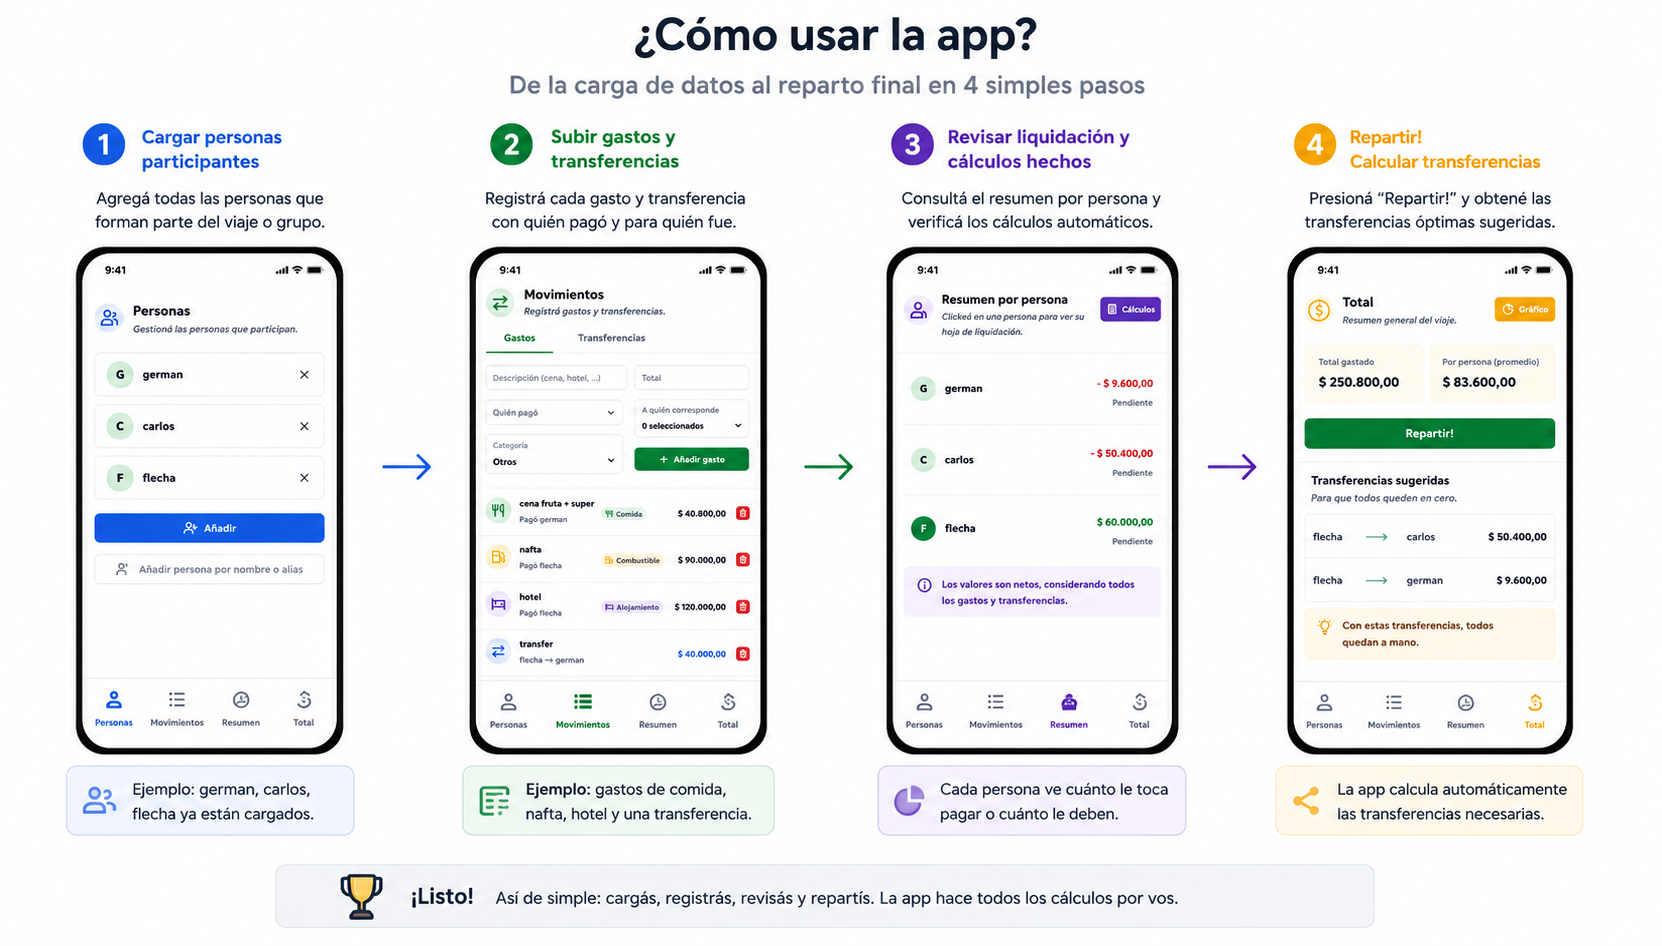
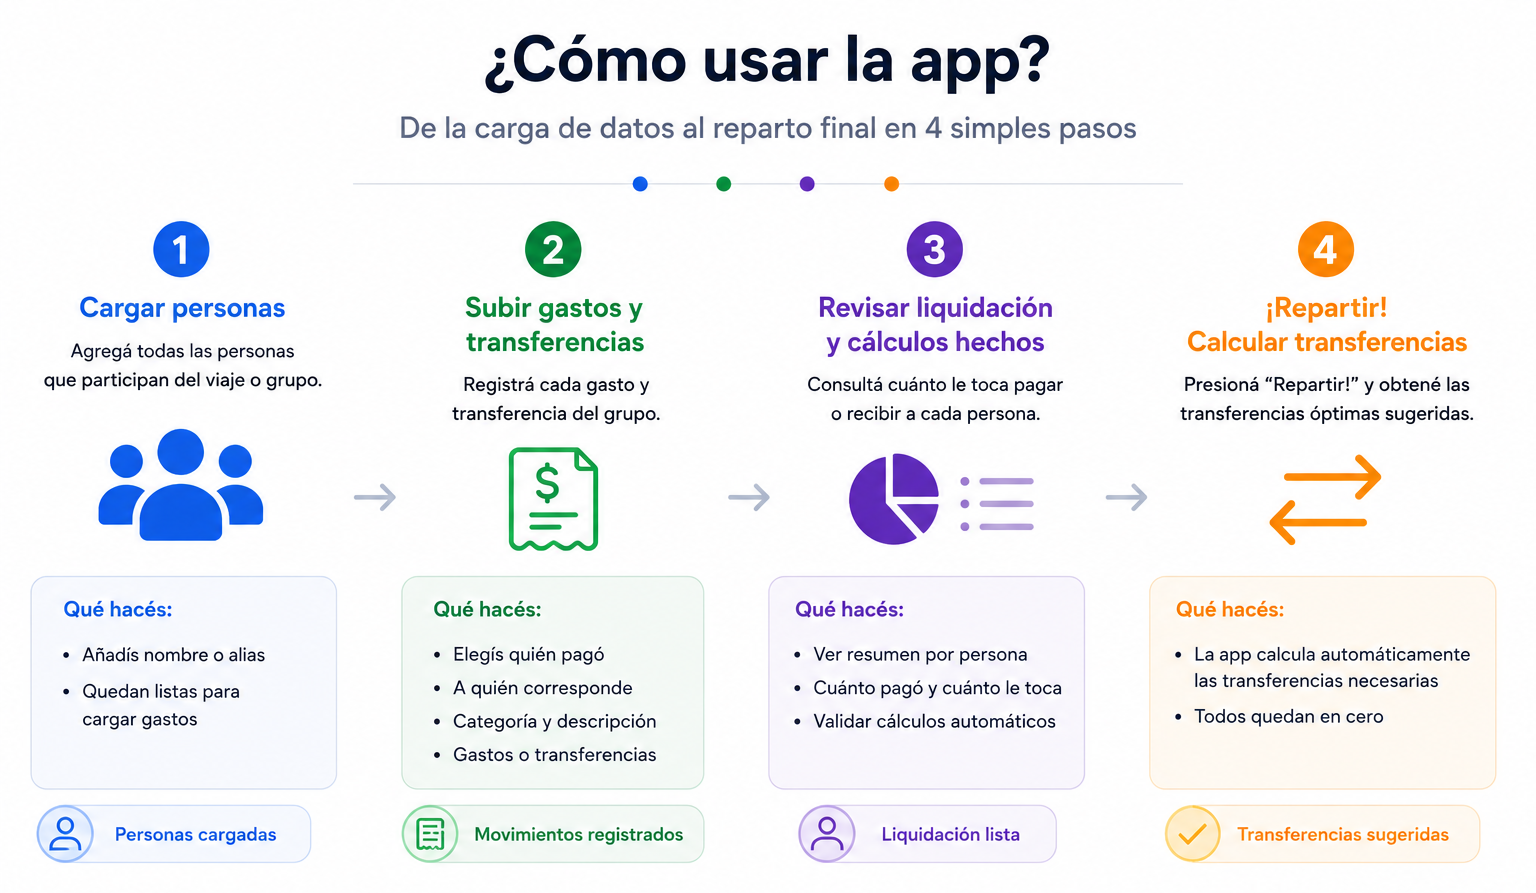
cambios

Changed region(s): [[0.0, 0.0, 0.9688, 0.9675]]

diff --git a/src/components/ui.tsx b/src/components/ui.tsx
@@ -10,6 +10,14 @@ import { createContext, useContext, useState } from "react"
 import type { ComponentProps, ReactNode } from "react"
 import { cn } from "../lib/utils"
 
+let scrollUntil = 0
+
+if (typeof window !== "undefined") {
+  window.addEventListener("scroll", () => {
+    scrollUntil = Date.now() + 180
+  }, { passive: true })
+}
+
 export function Button({ className, ...props }: ComponentProps<"button">) {
   return <button className={cn("btn", className)} {...props} />
 }
@@ -166,7 +174,21 @@ export const TabsTrigger = TabsPrimitive.Trigger
 export const TabsContent = TabsPrimitive.Content
 
 export const DropdownMenu = DropdownMenuPrimitive.Root
-export const DropdownMenuTrigger = DropdownMenuPrimitive.Trigger
+
+export function DropdownMenuTrigger({ onPointerDown, ...props }: ComponentProps<typeof DropdownMenuPrimitive.Trigger>) {
+  return (
+    <DropdownMenuPrimitive.Trigger
+      onPointerDown={(event) => {
+        if (Date.now() < scrollUntil) {
+          event.preventDefault()
+          return
+        }
+        onPointerDown?.(event)
+      }}
+      {...props}
+    />
+  )
+}
 export const DropdownMenuGroup = DropdownMenuPrimitive.Group
 export const DropdownMenuLabel = DropdownMenuPrimitive.Label
 export const DropdownMenuSeparator = DropdownMenuPrimitive.Separator

diff --git a/src/App.tsx b/src/App.tsx
@@ -748,7 +748,7 @@ export default function App() {
                 <form className="edit-form" onSubmit={(event) => { event.preventDefault(); aceptarEdicion() }}>
                   <label className="edit-field">
                     <span>Nombre</span>
-                    <Input autoFocus placeholder="Nombre" value={edicion?.movimiento.descripcion ?? ""} onChange={(event) => setEdicion(edicion ? { ...edicion, movimiento: { ...edicion.movimiento, descripcion: event.target.value } } : null)} />
+                    <Input placeholder="Nombre" value={edicion?.movimiento.descripcion ?? ""} onChange={(event) => setEdicion(edicion ? { ...edicion, movimiento: { ...edicion.movimiento, descripcion: event.target.value } } : null)} />
                   </label>
                   <label className="edit-field">
                     <span>Total</span>